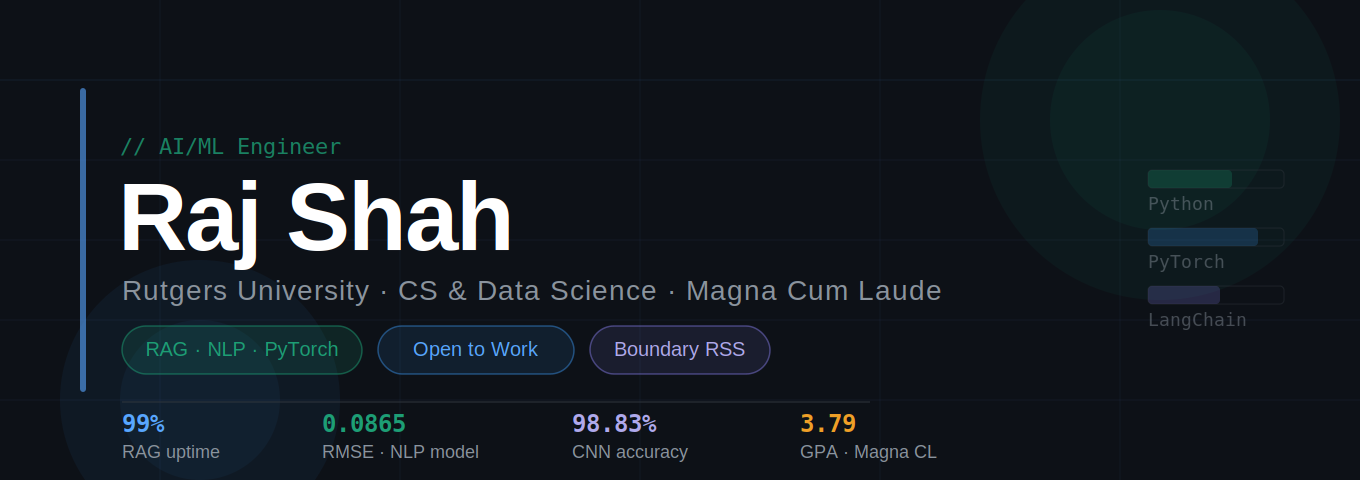
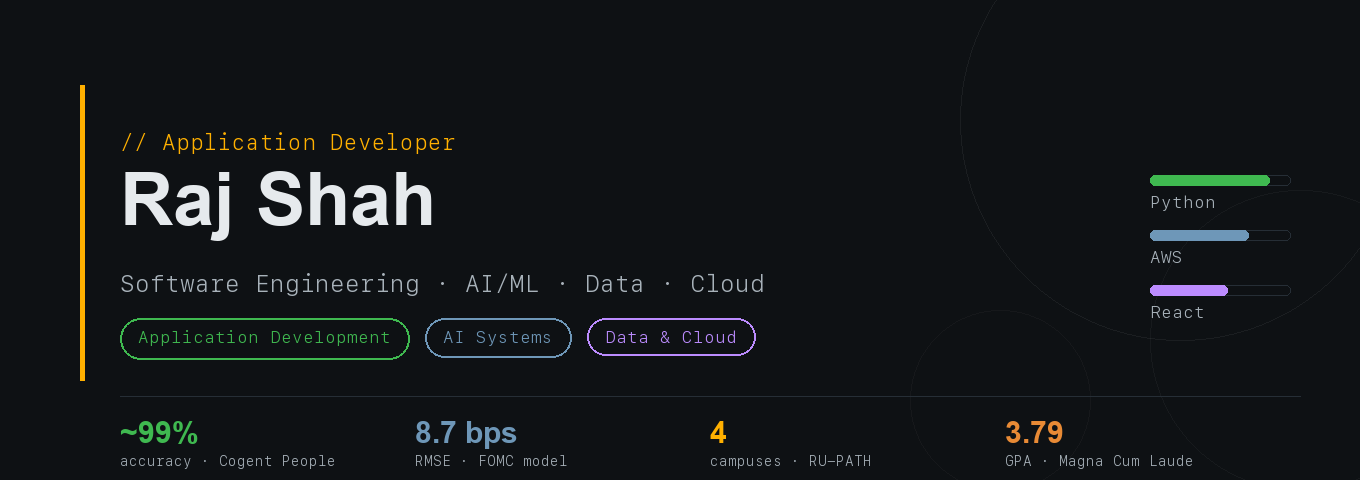
Reposition profile: Application Developer, not AI/ML Engineer
Updates banner, About, featured projects, tech stack grouping, and adds
an Experience Snapshot to reflect current work at Cogent People instead
of the outdated "AI/ML Engineer @ Boundary RSS, open to work" framing.
Project descriptions (RU-PATH, FOMC) corrected to match verified repo
architecture rather than the previously-listed stack.

diff --git a/README.md b/README.md
@@ -1,17 +1,17 @@
 <div align="center">
-  <img src="https://raw.githubusercontent.com/rajshah1909/rajshah1909/main/banner.png" width="100%" style="display:block;margin:0;padding:0;" alt="Raj Shah - AI/ML Engineer"/>
+  <img src="https://raw.githubusercontent.com/rajshah1909/rajshah1909/main/banner.png" width="100%" style="display:block;margin:0;padding:0;" alt="Raj Shah - Application Developer"/>
 </div>
 
 <br/>
 
 <div align="center">
 
-[![Typing SVG](https://readme-typing-svg.demolab.com?font=Fira+Code&weight=600&size=26&pause=1000&color=58A6FF&center=true&vCenter=true&width=700&lines=Hey%2C+I'm+Raj+Shah+%F0%9F%91%8B;AI%2FML+Engineer+%40+Boundary+RSS;Rutgers+CS+%26+Data+Science+%E2%80%94+Magna+Cum+Laude;Building+RAG+%7C+NLP+%7C+Production+ML+Systems)](https://git.io/typing-svg)
+[![Typing SVG](https://readme-typing-svg.demolab.com?font=Fira+Code&weight=600&size=26&pause=1000&color=FFB000&center=true&vCenter=true&width=700&lines=Hey%2C+I'm+Raj+Shah+%F0%9F%91%8B;Application+Developer;CS+%2B+Data+Science+%40+Rutgers;Building+Software+%C2%B7+AI+%C2%B7+Data+%C2%B7+Cloud+Systems)](https://git.io/typing-svg)
 
 [![LinkedIn](https://img.shields.io/badge/LinkedIn-0077B5?style=for-the-badge&logo=linkedin&logoColor=white)](https://www.linkedin.com/in/raj-shah-ai/)
 [![Portfolio](https://img.shields.io/badge/Portfolio-000000?style=for-the-badge&logo=github&logoColor=white)](https://rajshah1909.github.io/)
+[![Resume](https://img.shields.io/badge/Resume-FFB000?style=for-the-badge&logo=readdotcv&logoColor=black)](https://rajshah1909.github.io/Raj_Shah_Resume.pdf)
 [![Email](https://img.shields.io/badge/Email-D14836?style=for-the-badge&logo=gmail&logoColor=white)](mailto:rajshah.ap302@gmail.com)
-[![Open to Work](https://img.shields.io/badge/Open%20to%20Work-00A36C?style=for-the-badge&logo=handshake&logoColor=white)](#)
 
 </div>
 
@@ -19,54 +19,92 @@
 
 ## About Me
 
-I'm an AI/ML Engineer building production-grade systems at **Boundary RSS**. I graduated *Magna Cum Laude* (3.79 GPA, Dean's List, Honors) from **Rutgers University – New Brunswick** with a double major in Computer Science and Data Science.
+I'm an Application Developer with a background in Computer Science and Data Science, focused on building software systems that connect APIs, databases, cloud infrastructure, data, and AI.
 
-I transferred from community college, made it to the Honors program, and shipped real systems along the way — a RAG chatbot running at 99% uptime, an NLP yield-curve model at 0.0865 RMSE, and a CNN classifier at 98.83% accuracy. I learn by building, not just reading.
+My work has included enterprise AI analytics, multi-agent workflows, backend APIs, database integrations, applied LLM/RAG-adjacent applications, ML pipelines, and cloud-based application development — currently building agentic AI and AWS data systems for InsightAI, an enterprise healthcare analytics platform, at **Cogent People**.
 
-Currently seeking full-time roles in **AI/ML Engineering**, **Data Science**, or **Data Engineering**.
-
----
-
-## Featured Projects
-
-| Project | What It Does | Stack | Result |
-|---|---|---|---|
-| 🤖 **[RU-PATH](https://github.com/rajshah1909/ru-path)** | RAG chatbot for Rutgers campus navigation | LangChain · FastAPI · Docker | **99% uptime** in production |
-| 📈 **[Decoding the Fed](https://github.com/rajshah1909/ds-project)** | NLP model predicting treasury yield curves from Fed language | FinBERT · XGBoost · Python | **0.0865 RMSE** on test set |
-| 🧠 **[CNN Digit Classifier](https://github.com/rajshah1909/rutgers-coursework/tree/main/Machine%20Learning/HW4)** | End-to-end convolutional neural network on MNIST | PyTorch | **98.83% accuracy** |
-| 🚨 **[EvacAI](https://github.com/milipatel1309/EvacAI)** | AI evacuation routing system — IBM Z × UNSA Hackathon 2026 | IBM watsonx · Granite | Hackathon build |
+I graduated *Magna Cum Laude* from **Rutgers University – New Brunswick** with a double major in Computer Science and Data Science.
 
 ---
 
-## Tech Stack
+## What I Build
+
+**Application Development**
+Backend services, REST APIs, database-driven applications, enterprise integrations
+
+**AI Systems**
+Multi-agent workflows, LLM application integration, NLP, ML pipelines
+
+**Data & Cloud**
+SQL, data pipelines, AWS services, ETL, cloud deployment, CI/CD
+
+---
+
+## Featured Engineering Projects
+
+### 01 — [FOMC Yield Curve Prediction](https://github.com/rajshah1909/ds-project)
+*Financial NLP + Predictive Modeling*
+
+Analyzes Federal Reserve communication and macroeconomic data to model short-term Treasury yield movements, validated walk-forward against a macro-only baseline across 591 FOMC statements (1994–2024).
+
+`NLP / FinBERT` `XGBoost / Predictive Modeling` `Financial Time-Series`
+
+### 02 — [RU-PATH](https://github.com/rajshah1909/ru-path)
+*Backend Assistant for Rutgers Parking & Transit*
+
+Application that resolves Rutgers parking and transit questions across 4 campuses — a Flask API routes each query through intent detection and structured-data matching before handing context to DeepSeek for a natural-language answer.
+
+`Flask REST APIs` `LLM Integration (DeepSeek)` `Intent Routing & Data Modeling`
+
+### 03 — [EvacAI](https://github.com/milipatel1309/EvacAI)
+*AI-Powered Disaster Preparedness Platform*
+
+Disaster-preparedness application combining geolocation, live weather and alert data, a risk-scoring model, and IBM watsonx/Granite-generated guidance — built as a 4-person team for the IBM Z × UNSA Hackathon, with a SwiftUI iOS client and web client. *(Team repo, hosted under a teammate's account.)*
+
+`SwiftUI / iOS Development` `FastAPI / Application Backend` `IBM watsonx / Granite`
+
+---
+
+## Engineering Toolkit
 
 **Languages**
-![Python](https://img.shields.io/badge/Python-3670A0?style=for-the-badge&logo=python&logoColor=ffdd54)
-![SQL](https://img.shields.io/badge/SQL-4479A1?style=for-the-badge&logo=mysql&logoColor=white)
-![R](https://img.shields.io/badge/R-276DC3?style=for-the-badge&logo=r&logoColor=white)
-![Java](https://img.shields.io/badge/Java-ED8B00?style=for-the-badge&logo=openjdk&logoColor=white)
+![Python](https://img.shields.io/badge/Python-3670A0?style=flat-square&logo=python&logoColor=ffdd54)
+![SQL](https://img.shields.io/badge/SQL-4479A1?style=flat-square&logo=mysql&logoColor=white)
+![Java](https://img.shields.io/badge/Java-ED8B00?style=flat-square&logo=openjdk&logoColor=white)
+![R](https://img.shields.io/badge/R-276DC3?style=flat-square&logo=r&logoColor=white)
 
-**ML / AI**
-![PyTorch](https://img.shields.io/badge/PyTorch-EE4C2C?style=for-the-badge&logo=PyTorch&logoColor=white)
-![scikit-learn](https://img.shields.io/badge/scikit--learn-F7931E?style=for-the-badge&logo=scikit-learn&logoColor=white)
-![LangChain](https://img.shields.io/badge/LangChain-1C3C3C?style=for-the-badge&logo=langchain&logoColor=white)
-![HuggingFace](https://img.shields.io/badge/HuggingFace-FFD21E?style=for-the-badge&logo=huggingface&logoColor=black)
-![XGBoost](https://img.shields.io/badge/XGBoost-189AB4?style=for-the-badge&logo=python&logoColor=white)
+**Backend & Applications**
+![FastAPI](https://img.shields.io/badge/FastAPI-005571?style=flat-square&logo=fastapi)
+![Flask](https://img.shields.io/badge/Flask-000000?style=flat-square&logo=flask&logoColor=white)
+![REST APIs](https://img.shields.io/badge/REST%20APIs-02569B?style=flat-square)
+![PostgreSQL](https://img.shields.io/badge/PostgreSQL-316192?style=flat-square&logo=postgresql&logoColor=white)
 
-**Data & Visualization**
-![Pandas](https://img.shields.io/badge/Pandas-150458?style=for-the-badge&logo=pandas&logoColor=white)
-![NumPy](https://img.shields.io/badge/NumPy-013243?style=for-the-badge&logo=numpy&logoColor=white)
-![Tableau](https://img.shields.io/badge/Tableau-E97627?style=for-the-badge&logo=tableau&logoColor=white)
-![Matplotlib](https://img.shields.io/badge/Matplotlib-ffffff?style=for-the-badge&logo=Matplotlib&logoColor=black)
+**AI Application Engineering**
+![PyTorch](https://img.shields.io/badge/PyTorch-EE4C2C?style=flat-square&logo=PyTorch&logoColor=white)
+![scikit-learn](https://img.shields.io/badge/scikit--learn-F7931E?style=flat-square&logo=scikit-learn&logoColor=white)
+![LangChain](https://img.shields.io/badge/LangChain-1C3C3C?style=flat-square&logo=langchain&logoColor=white)
+![HuggingFace](https://img.shields.io/badge/HuggingFace-FFD21E?style=flat-square&logo=huggingface&logoColor=black)
+![XGBoost](https://img.shields.io/badge/XGBoost-189AB4?style=flat-square&logo=python&logoColor=white)
 
-**Infrastructure**
-![FastAPI](https://img.shields.io/badge/FastAPI-005571?style=for-the-badge&logo=fastapi)
-![Docker](https://img.shields.io/badge/Docker-0db7ed?style=for-the-badge&logo=docker&logoColor=white)
-![GitHub Actions](https://img.shields.io/badge/GitHub%20Actions-2671E5?style=for-the-badge&logo=githubactions&logoColor=white)
-![PostgreSQL](https://img.shields.io/badge/PostgreSQL-316192?style=for-the-badge&logo=postgresql&logoColor=white)
-![Snowflake](https://img.shields.io/badge/Snowflake-29B5E8?style=for-the-badge&logo=snowflake&logoColor=white)
+**Data**
+![Pandas](https://img.shields.io/badge/Pandas-150458?style=flat-square&logo=pandas&logoColor=white)
+![NumPy](https://img.shields.io/badge/NumPy-013243?style=flat-square&logo=numpy&logoColor=white)
+![Tableau](https://img.shields.io/badge/Tableau-E97627?style=flat-square&logo=tableau&logoColor=white)
+![Snowflake](https://img.shields.io/badge/Snowflake-29B5E8?style=flat-square&logo=snowflake&logoColor=white)
+
+**Cloud & DevOps**
+![AWS](https://img.shields.io/badge/AWS-232F3E?style=flat-square&logo=amazonaws&logoColor=white)
+![Docker](https://img.shields.io/badge/Docker-0db7ed?style=flat-square&logo=docker&logoColor=white)
+![GitHub Actions](https://img.shields.io/badge/GitHub%20Actions-2671E5?style=flat-square&logo=githubactions&logoColor=white)
 
 ---
+
+## Other Engineering & ML Work
+
+- **[CNN Digit Classifier](https://github.com/rajshah1909/rutgers-coursework/tree/main/Machine%20Learning/HW4)** — LeNet1 / STN-LeNet on MNIST (PyTorch), 98.83% test accuracy
+
+---
+
 ## Contribution Graph
 
 <picture>
@@ -76,15 +114,38 @@ Currently seeking full-time roles in **AI/ML Engineering**, **Data Science**, or
 
 ---
 
+## Experience Snapshot
+
+**Application Developer — Cogent People** *(current)*
+Agentic AI workflows and governed AI-to-data access for InsightAI, an enterprise healthcare analytics platform — supervisor and specialist agents handling reasoning, SQL generation, and validation. *(Amazon Bedrock, AgentCore, Strands Agents, MCP, Amazon Redshift, FastAPI, DynamoDB, ECS Fargate)*
+
+**Software Engineering & AI Intern — Cogent People** *(prior role, same team)*
+
+**AI & ML Engineer — Boundary Remote Subsurface Solutions**
+ML pipelines for a production geospatial AI framework ingesting 13+ heterogeneous subsurface dataset types, with structured QC, schema validation, and depth-gap classification.
+
+---
+
+## Education
+
+**Rutgers University–New Brunswick** — BS, Computer Science and Data Science
+*Magna Cum Laude · Honors in both majors · 3.792 GPA · Dean's List*
+
+**Middlesex College** — AS, Computer Science
+*Phi Theta Kappa Honor Society*
+
+---
+
 ## Currently
 
-- 🎓 Magna Cum Laude · 3.79 GPA · Dean's List · Honors Program · Phi Theta Kappa
-- 🔨 Building AI/ML systems at **Boundary RSS**
-- 📬 Open to full-time **AI/ML Engineer · Data Scientist · Data Engineer** roles
+- 💻 Application Developer — building enterprise application and backend systems at Cogent People
+- 🧠 Working across agentic AI workflows, applied LLM integration, and AI-assisted data systems
+- ☁ Building across APIs, databases, cloud services (AWS), and data pipelines
+- 🎓 Rutgers University — BS Computer Science + Data Science, Magna Cum Laude
 - 📫 **rajshah.ap302@gmail.com** — I respond within 24 hours
 
 <div align="center">
 
-[![](https://komarev.com/ghpvc/?username=rajshah1909&color=58A6FF&style=for-the-badge&label=PROFILE+VIEWS)](https://github.com/rajshah1909)
+[![](https://komarev.com/ghpvc/?username=rajshah1909&color=FFB000&style=for-the-badge&label=PROFILE+VIEWS)](https://github.com/rajshah1909)
 
 </div>
